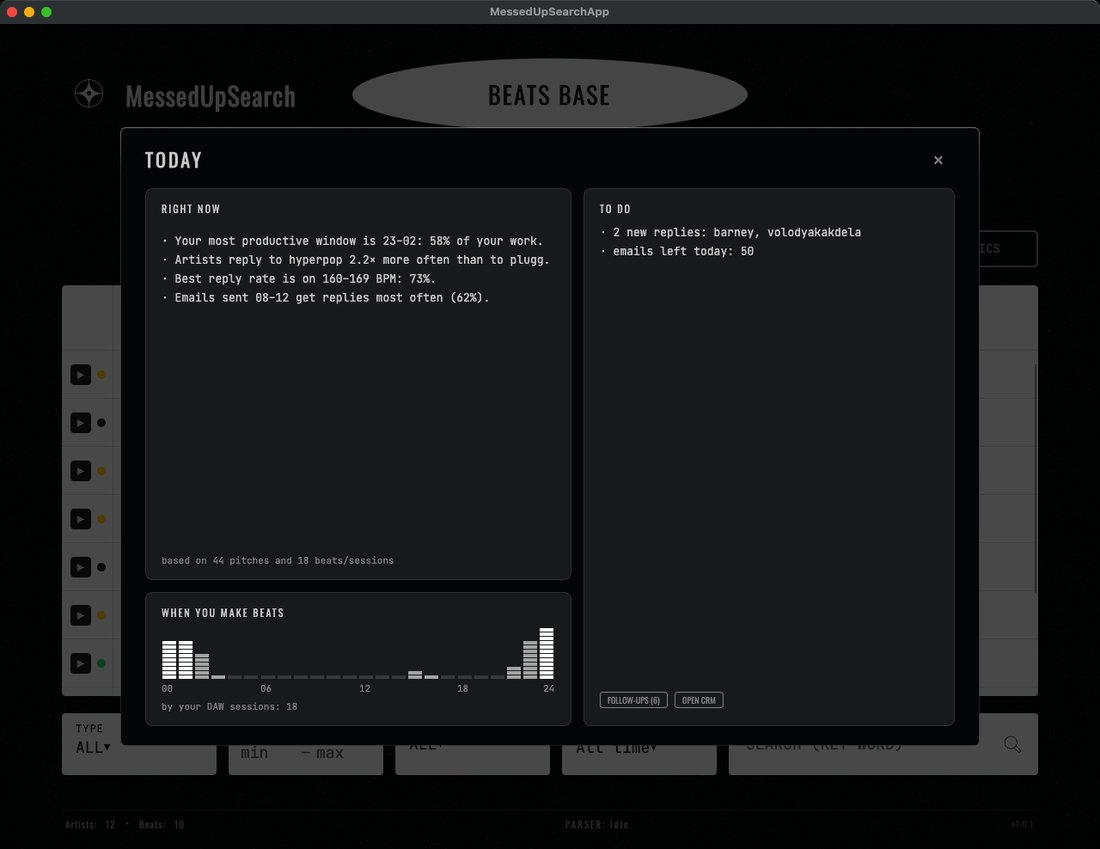
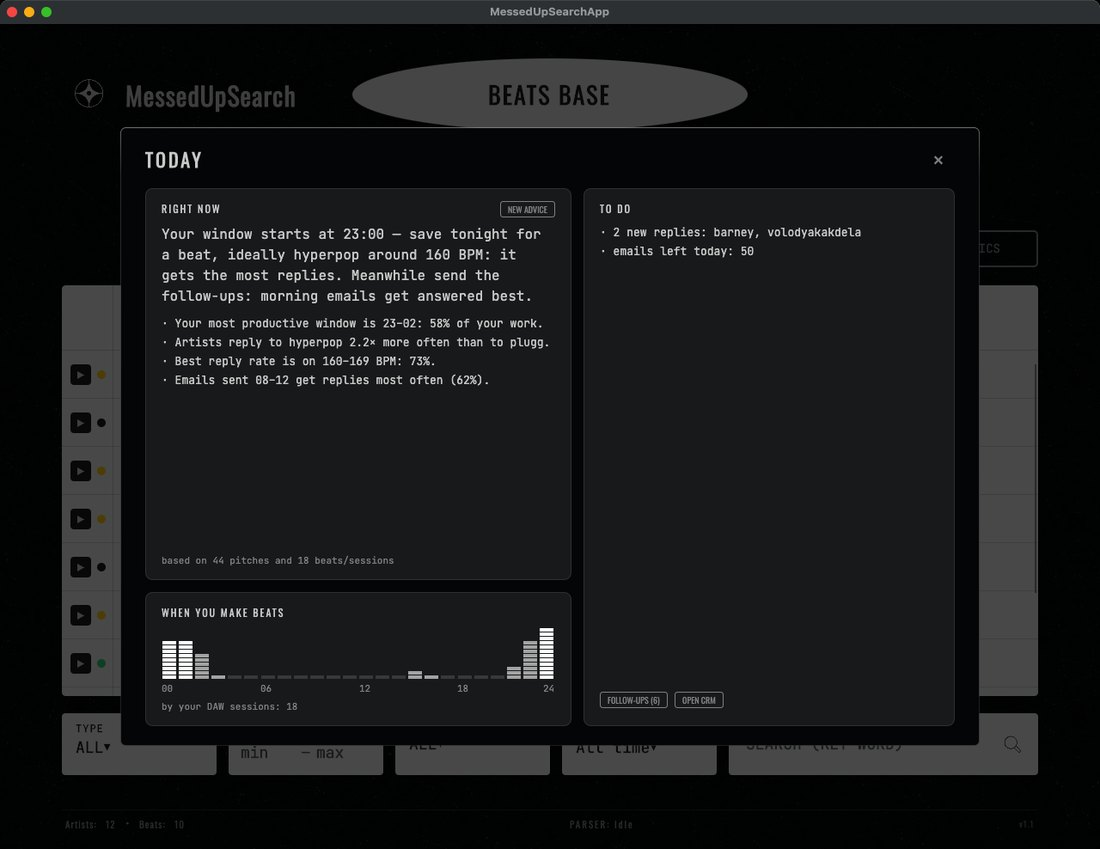
v1.1: версия, README и скриншоты на демо-данных (совет «Сегодня», настройки почты и нейросети)

Changed region(s): [[0.1545, 0.245, 0.4945, 0.4594]]

diff --git a/MessedUpSearchA/ViewModels/MainWindowViewModel.cs b/MessedUpSearchA/ViewModels/MainWindowViewModel.cs
@@ -131,7 +131,7 @@ public partial class MainWindowViewModel : ViewModelBase
 
     public IReadOnlyList<string> LanguageOptions { get; } = new[] { "English", "Русский" };
 
-    public string AppVersion => "v1.0.1";
+    public string AppVersion => "v1.1";
 
     /// <summary>Подпись в футере: «ожидание» или «идёт поиск» (окно парсера можно закрыть — поиск идёт дальше).</summary>
     public string ParserStatus =>

diff --git a/README.md b/README.md
@@ -90,6 +90,8 @@
   <img src="docs/ru-today.jpg" alt="Сегодня" width="49%">
 </p>
 
+<sub>На скриншотах — демо-данные: вымышленные письма и ответы, адреса в зарезервированном домене `.example`.</sub>
+
 ## Мелочи
 
 - Русский и английский интерфейс, переключается сразу, без перезапуска.

diff --git a/README.en.md b/README.en.md
@@ -90,6 +90,8 @@ Everything the analysis finds is saved: an artist's card shows which of your bea
   <img src="docs/en-today.jpg" alt="Today" width="49%">
 </p>
 
+<sub>Screenshots use demo data: made-up emails and replies, addresses in the reserved `.example` domain.</sub>
+
 ## Small things
 
 - Russian and English interface, switches instantly, no restart.
